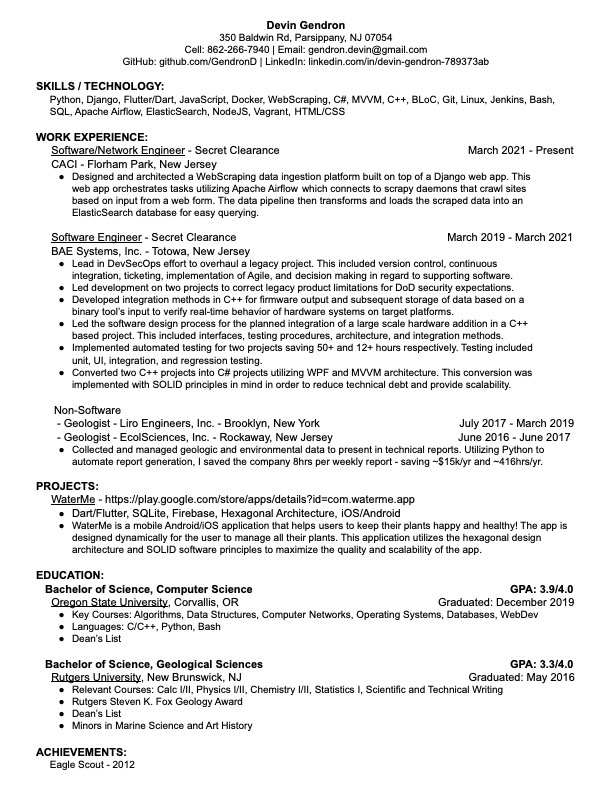
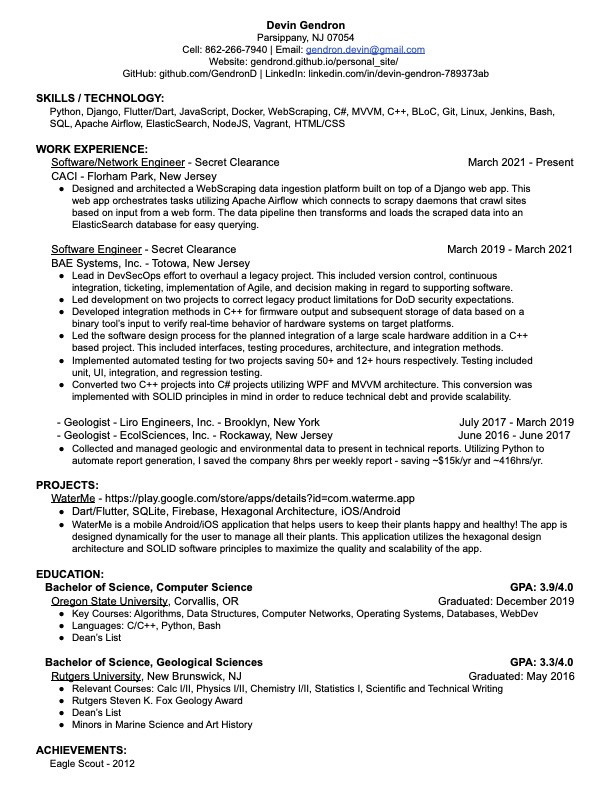
Updates to obfuscate personal resume details.

Changed region(s): [[0.0621, 0.0303, 0.9314, 0.9697]]

diff --git a/index.html b/index.html
@@ -129,7 +129,7 @@
                             <div class="project__content-box">
 
                                 <div class="project__cta-box text-center">
-                                    <a href="https://drive.google.com/file/d/1XhH382dE16wlrjdyyGl7vz4qX1UKdbcH/view?usp=sharing"
+                                    <a href="https://drive.google.com/file/d/1j6ryX-AkFzT0WKZTPdAUo5afoiFfc3T6/view?usp=sharing"
                                         target="_blank" rel="noopener" class="btn btn--ghost">
                                         <svg class="icon btn__icon-left icon-earth">
                                             <use xlink:href="img/SVG/symbol-defs.svg#icon-earth"></use>
